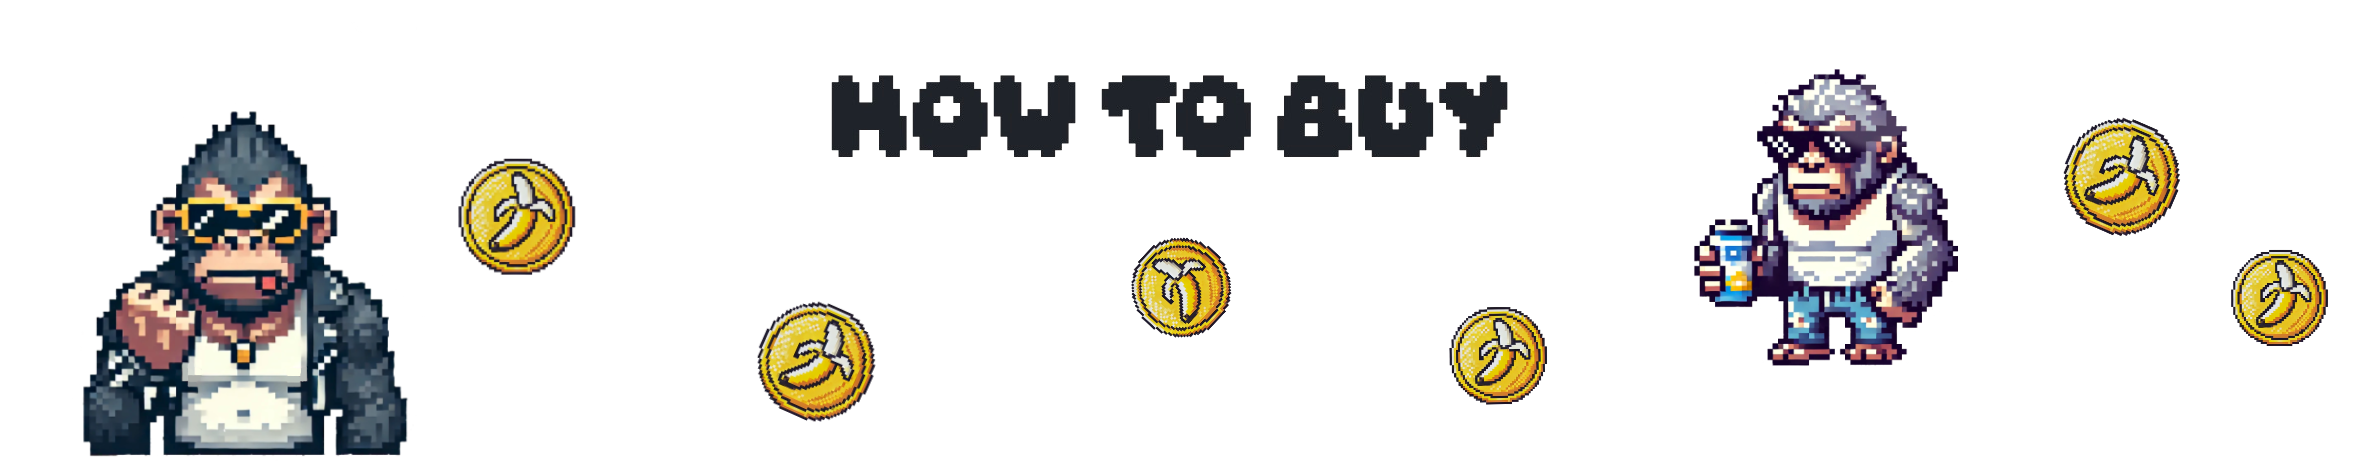
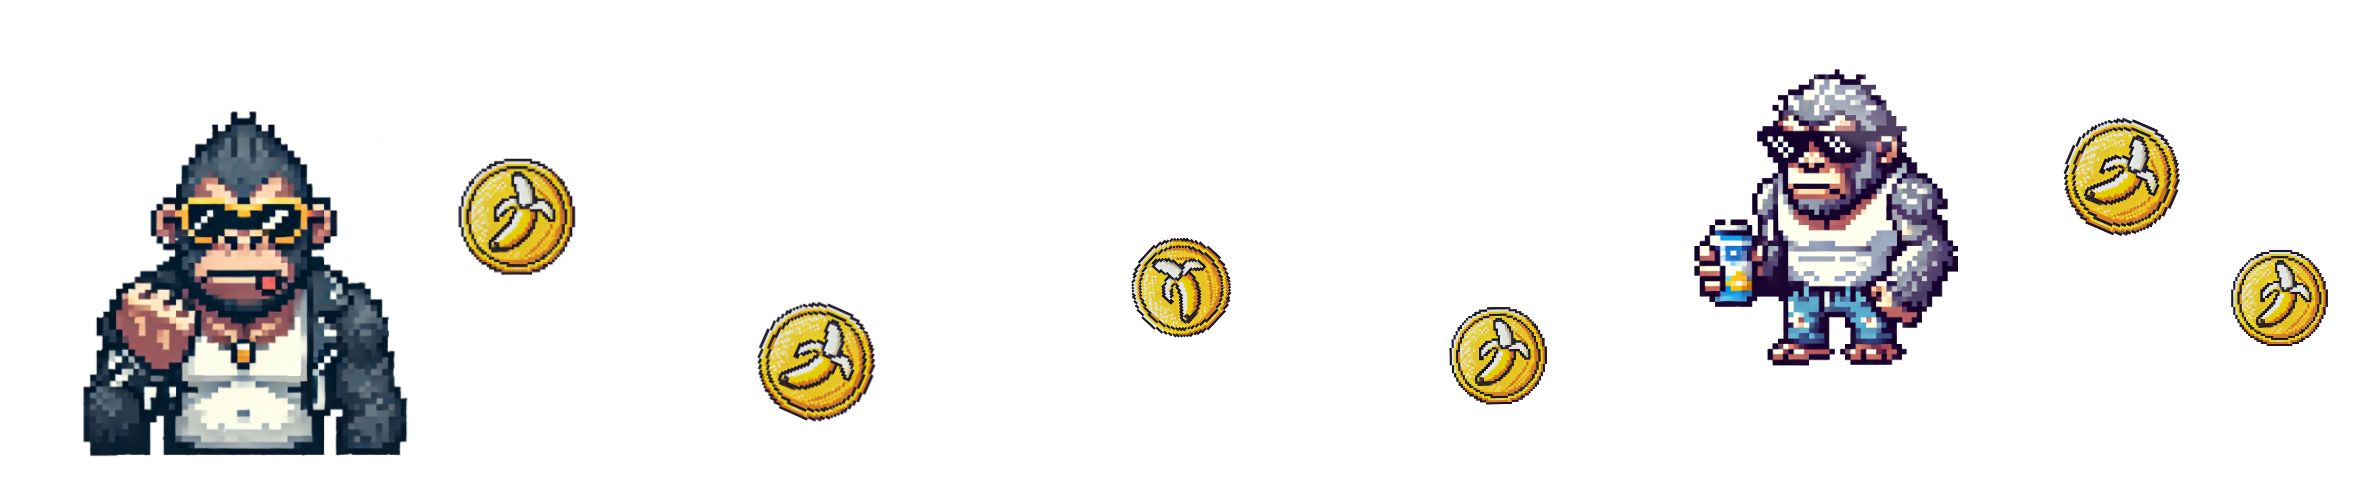
updated bg layers

diff --git a/src/App.jsx b/src/App.jsx
@@ -24,7 +24,7 @@ function App() {
 
   return (
     <div>
-      <Parallax pages={2} style={{ top: 0, left: 0 }}>
+      <Parallax pages={3} style={{ top: 0, left: 0 }}>
         <ParallaxLayer offset={0} speed={0} factor={1}>
           <div className='landing-page h-full w-full'></div>
         </ParallaxLayer>
@@ -81,24 +81,25 @@ function App() {
 
 
         {/* PIXEL MONKEY LAYERS */}
-        {isMobile ? (
-          <ParallaxLayer offset={1} speed={.2}>
-            <div className="absolute top-0 left-0 w-full h-full flex justify-center">
-              <p className="mt-5 buy-text text-4xl font-bold">How to Buy</p>
-            </div>
-          </ParallaxLayer>
-        ) : (
-          <ParallaxLayer offset={1} speed={0.25}>
-            <div className="w-full h-full flex flex-col justify-center">
-              <img className='w-full h-1/3' src={layer1}/>
-              <img className='w-full h-1/3' src={layer2}/>
-              <img className='w-full h-1/3' src={layer3}/>
-            </div>
-          </ParallaxLayer>
-        )}
+        <ParallaxLayer offset={1} speed={0.25} factor={1} sticky={{start: 1, end: 2}}>
+          <div className="w-full h-full flex flex-col justify-center">
+            {!isMobile && (
+              <>
+                <img className="w-full h-1/3" src={layer1} />
+                <img className="w-full h-1/3" src={layer2} />
+                <img className="w-full h-1/3" src={layer3} />
+              </>
+            )}
+          </div>
+        </ParallaxLayer>
 
+        <ParallaxLayer offset={1} speed={.15} sticky={{start: 1, end: 1}}>
+          <div className="absolute top-0 left-0 w-full h-full flex justify-center">
+            <p className="mt-5 buy-text text-4xl font-bold">How to Buy</p>
+          </div>
+        </ParallaxLayer>
 
-        <ParallaxLayer offset={1} speed={.35}>
+        <ParallaxLayer offset={1} speed={.35} sticky={{start: 1, end: 1}}>
           <div className="h-full w-full flex justify-center items-center">
             <div className="d-flex justify-content-center gap-5">
               <Card style={{ width: '18rem', boxShadow: '10px 10px 5px' }} className="d-flex flex-column">
@@ -138,9 +139,16 @@ function App() {
         <ParallaxLayer
           offset={1}
           speed={.5}
+          sticky={{start: 1, end: 1}}
         >
           <div className='flex justify-center absolute bottom-1/12 w-full'>
             <p className='ca-text drop-shadow-[2px_2px_0px_white]'>CA: NOT OUT YET</p>
+          </div>
+        </ParallaxLayer>
+
+        <ParallaxLayer offset={2} speed={.3}>
+          <div className='flex h-full w-full items-center justify-center'>
+            <p>Hello World</p>
           </div>
         </ParallaxLayer>
 

diff --git a/src/App.css b/src/App.css
@@ -76,8 +76,8 @@ body {
 }
 
 .layer1 {
-  background-image: url('./assets/images/degenapelayer1.png');
-  background-size: contain;
+  background-image: url('./assets/images/layer1.png');
+  background-size: cover;
   background-repeat: no-repeat;
   background-position: top center;
   overflow-x: hidden;
